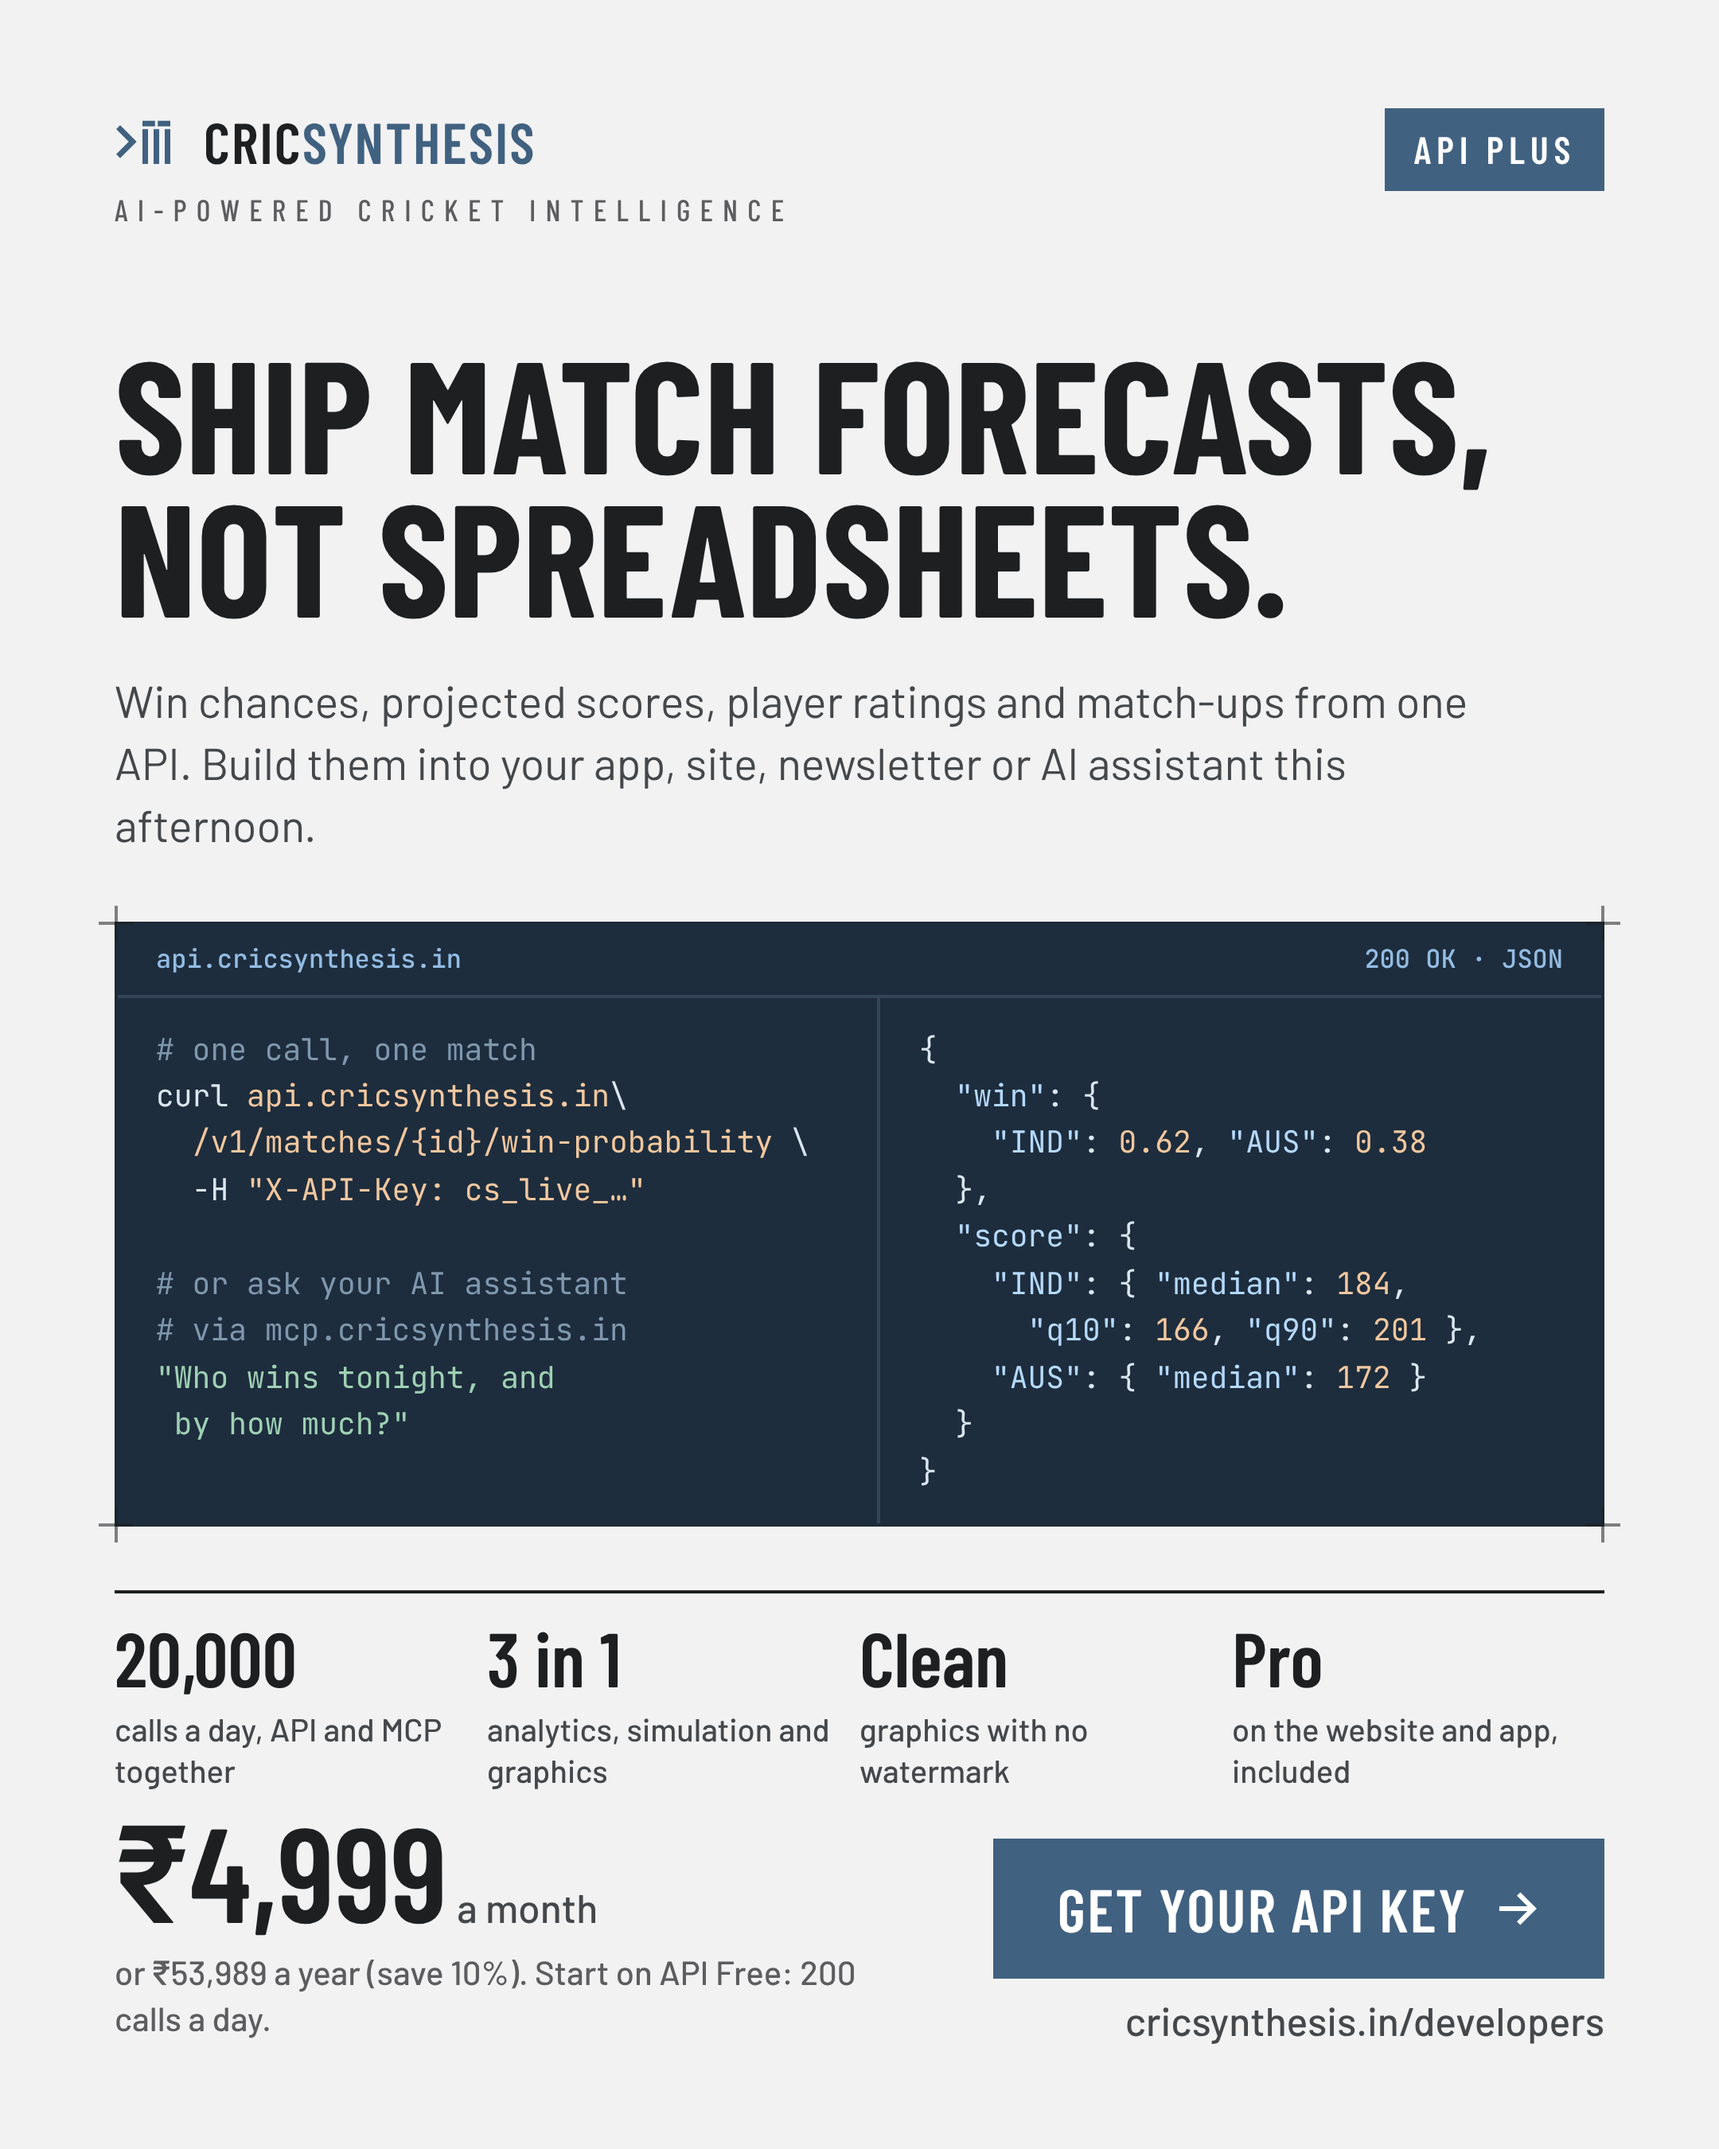
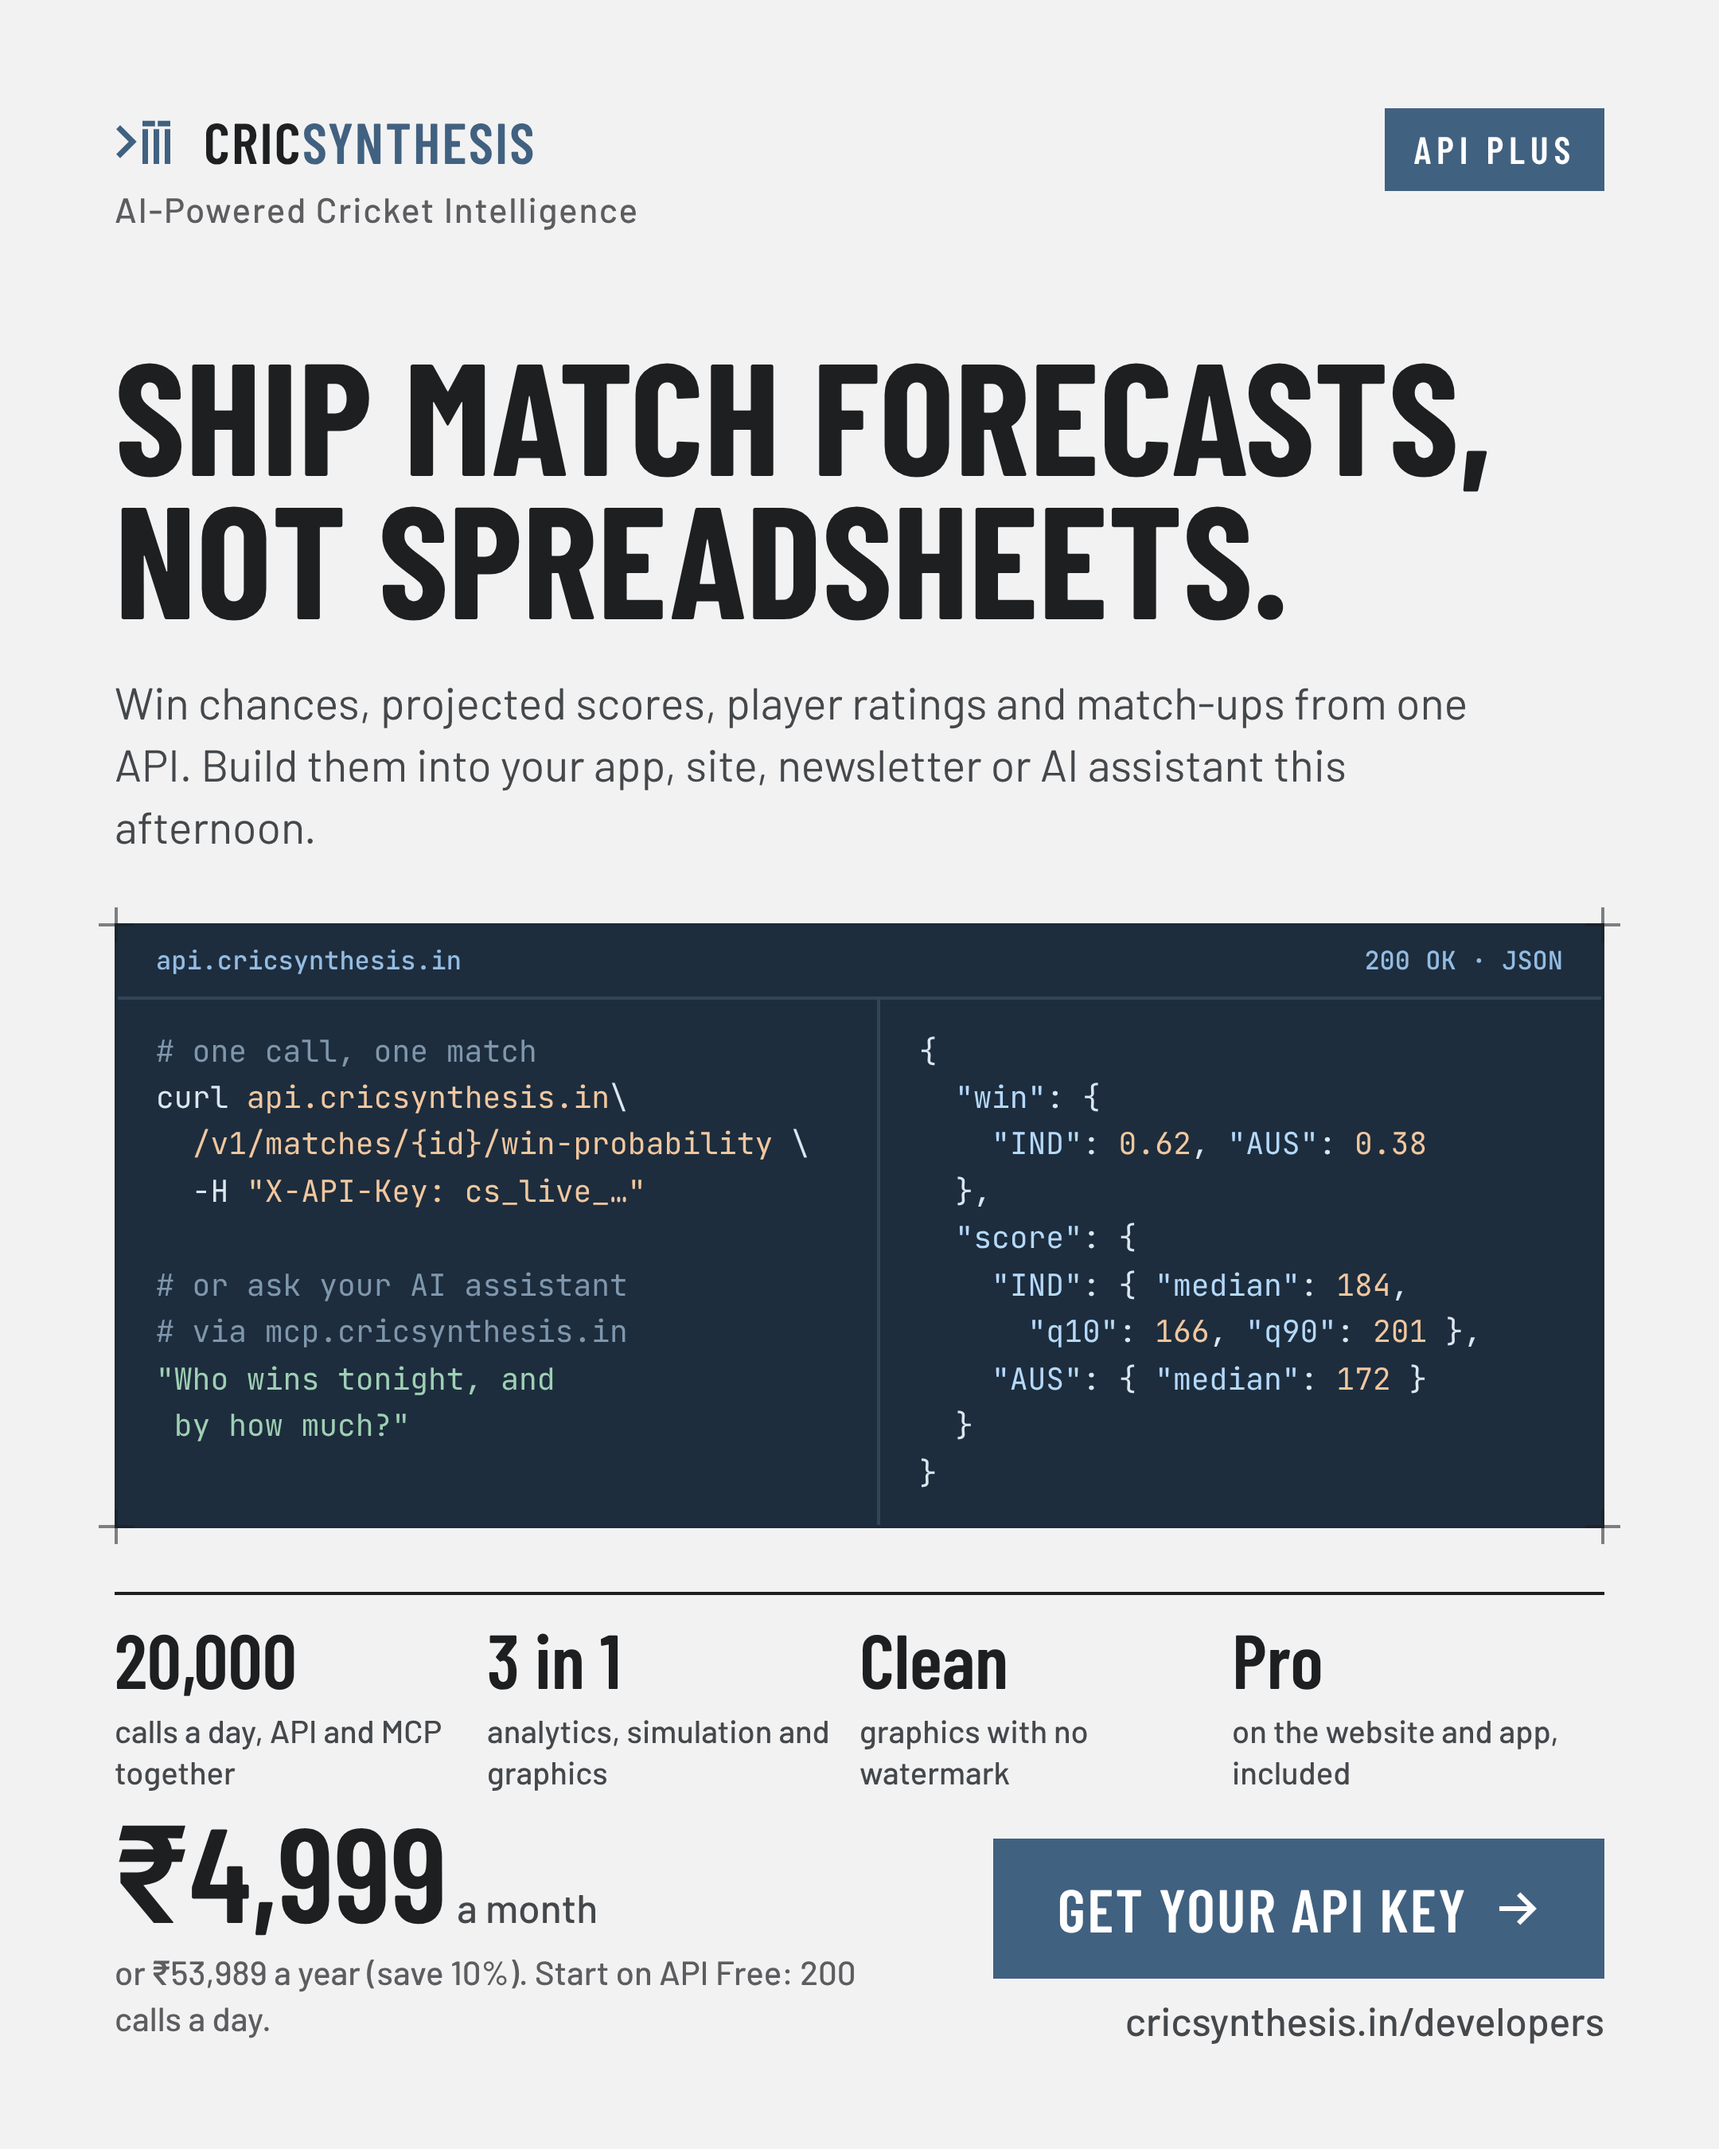
Posters: AI-Powered Cricket Intelligence tagline in one style on all three
Claude-Session: https://claude.ai/code/session_01DtYK7t4cwHWwRbQiwwp7NB

diff --git a/marketing/posters/posters.html b/marketing/posters/posters.html
@@ -18,7 +18,7 @@ body{background:#777;font-family:var(--body);color:var(--ink);-webkit-font-smoot
 .brand{display:flex;align-items:center;gap:14px;font:600 36px/1 var(--head);letter-spacing:.03em}
 .brand svg{width:42px;height:42px}
 .brand .syn{color:var(--s7)}
-.tagline{font:500 19px/1 var(--head);letter-spacing:.32em;text-transform:uppercase;color:var(--ink3);margin-top:12px}
+.tagline{font:500 22px/1 var(--body);letter-spacing:.04em;color:var(--ink3);margin-top:10px}
 
 /* corner-tick frame (cs-frame) */
 .frame{position:relative;border:2px solid var(--line)}
@@ -42,7 +42,7 @@ h1{font:700 104px/.9 var(--head);text-transform:uppercase;margin-top:72px;positi
 /* 1. Pro: fans. Website look: paper background, ink headings, steel accents, check lists, navy offer band. */
 .pro{background:var(--paper);color:var(--ink);padding:60px 64px 54px}
 .pro .stadium{position:absolute;left:0;top:0;width:1080px;height:1350px;pointer-events:none}
-.pro .tagline{letter-spacing:.04em;text-transform:none;font:500 22px/1 var(--body);color:var(--ink3);margin-top:10px}
+.pro .tagline{color:var(--ink3)}
 .pro .pill{background:var(--s7);color:#fff;font:600 22px/1 var(--head);letter-spacing:.1em;text-transform:uppercase;padding:11px 16px;border-radius:4px}
 .pro .eyebrow{font:600 24px/1 var(--head);letter-spacing:.14em;text-transform:uppercase;color:var(--s7);margin-top:44px;position:relative}
 .pro h1{font-size:94px;line-height:.92;margin-top:12px}
@@ -126,7 +126,7 @@ h1{font:700 104px/.9 var(--head);text-transform:uppercase;margin-top:72px;positi
 .biz{background:var(--paper)}
 .biz .band{position:absolute;left:0;right:0;top:0;height:700px;background:var(--s8)}
 .biz .band .grid{background-image:linear-gradient(90deg,rgba(181,217,253,.07) 2px,transparent 2px);background-size:120px 100%}
-.biz .top{color:var(--paper)} .biz .brand .syn,.biz .tagline{color:var(--s4)} .biz .tag{color:var(--s3)}
+.biz .top{color:var(--paper)} .biz .brand .syn{color:var(--s4)} .biz .tagline{color:#c6d2dd} .biz .tag{color:var(--s3)}
 .biz h1{color:var(--paper);font-size:92px;margin-top:60px}
 .biz .mid{display:grid;grid-template-columns:1fr 420px;gap:44px;margin-top:36px;position:relative;align-items:start}
 .biz .lede{color:#d5e0ea;margin-top:4px}
